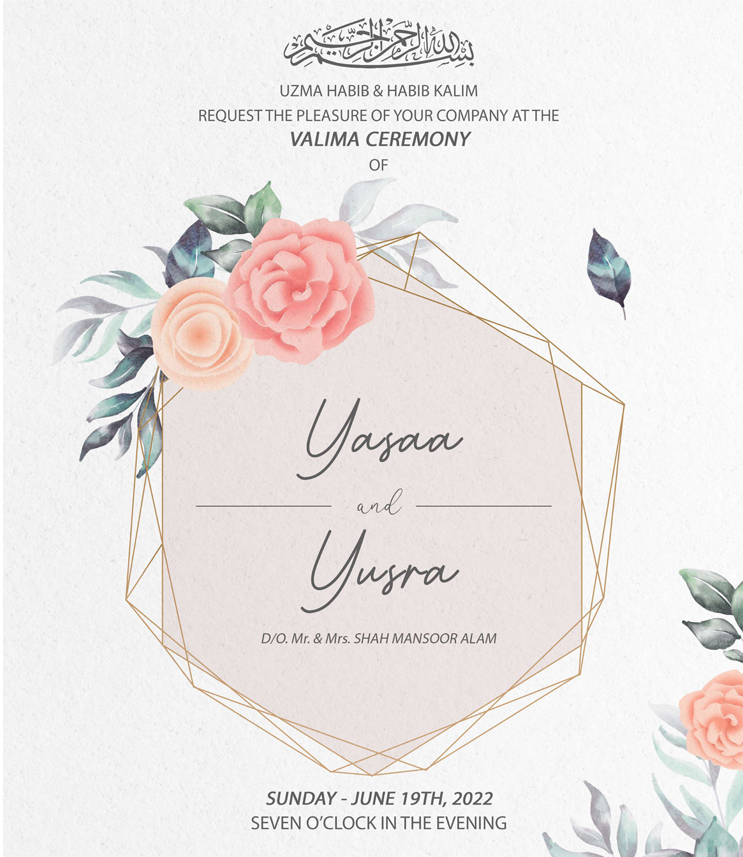
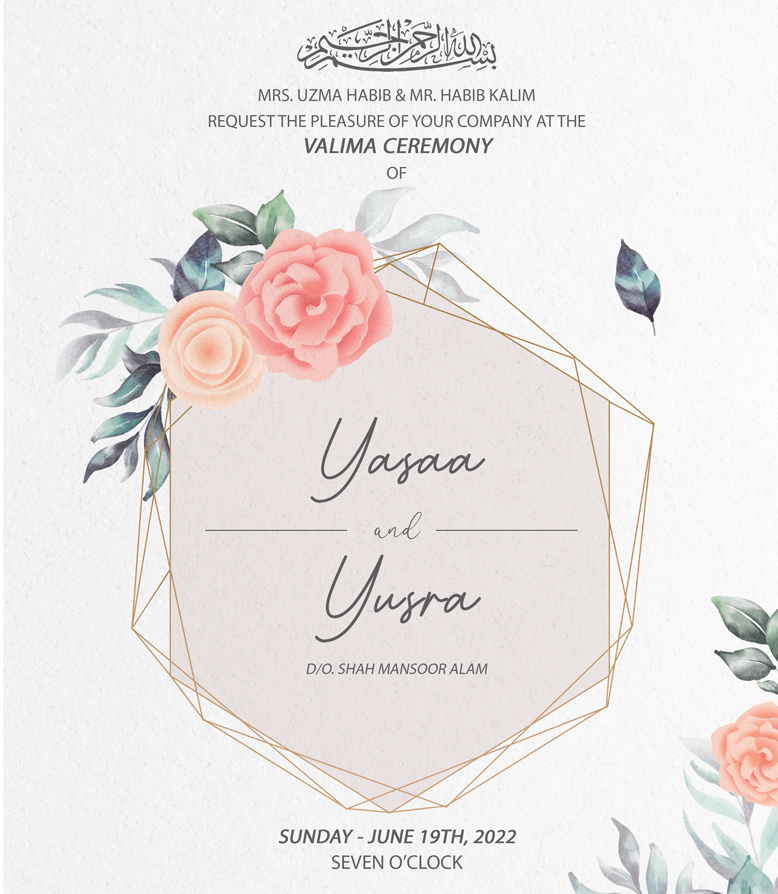
Added rsvp text

diff --git a/index.html b/index.html
@@ -1,40 +1,30 @@
 <html>
 <head>
-<title>You're Invited!</title>
+<title>Reception Invitation1</title>
 <meta http-equiv="Content-Type" content="text/html; charset=iso-8859-1">
 </head>
-<body bgcolor="#FFFFFF" leftmargin="0" rightmargin="0" topmargin="0" marginwidth="20" marginheight="20" bottommargin="20" >
-<!-- Save for Web Slices (Reception Card) -->
-<table id="Table_01" width="744" height="1050" border="0" cellpadding="0" cellspacing="0" align=center>
+<body bgcolor="#FFFFFF" leftmargin="0" rightmargin="0" topmargin="0" marginwidth="20" marginheight="40" bottommargin="20" >
+<!-- Save for Web Slices (Reception Invitation1.psd) -->
+<table id="Table_01" width="778" height="1100" border="0" cellpadding="0" cellspacing="0" align=center>
 	<tr>
 		<td colspan="3">
-			<img src="images/index_01.jpg" width="743" height="857" alt=""></td>
-		<td>
-			<img src="images/spacer.gif" width="1" height="857" alt=""></td>
+			<img src="images/index_01.jpg" width="778" height="894" alt=""></td>
 	</tr>
 	<tr>
+		<td>
+			<img src="images/index_02.jpg" width="290" height="104" alt=""></td>
+		<td>
+			<a href="https://www.google.com/maps/place/Shalimar+Banquets/@41.906013,-87.995106,15z/data=!4m5!3m4!1s0x0:0xc26fa38eea6a2687!8m2!3d41.9061094!4d-87.9947643?sa=X&ved=2ahUKEwjb9pCX1fH2AhXaHM0KHUwPCYsQ_BJ6BAhLEAU">
+				<img src="images/Reception-Invitation1_03.jpg" width="217" height="104" border="0" alt=""></a></td>
 		<td rowspan="2">
-			<img src="images/index_02.jpg" width="278" height="119" alt=""></td>
-		<td>
-			<a href="https://goo.gl/maps/FQpSR3jDmJVNz4Vn8">
-				<img src="images/Shalimar-Banquets-Location.jpg" width="212" height="83" border="0" alt=""></a></td>
-		<td rowspan="3">
-			<img src="images/index_04.jpg" width="253" height="193" alt=""></td>
-		<td>
-			<img src="images/spacer.gif" width="1" height="83" alt=""></td>
-	</tr>
-	<tr>
-		<td rowspan="2">
-			<img src="images/index_05.jpg" width="212" height="110" alt=""></td>
-		<td>
-			<img src="images/spacer.gif" width="1" height="36" alt=""></td>
+			<img src="images/index_04.jpg" width="271" height="206" alt=""></td>
 	</tr>
 	<tr>
 		<td>
 			<a href="https://www.theknot.com/yusraandyasaa">
-				<img src="images/RSVP-Link.jpg" width="278" height="74" border="0" alt=""></a></td>
+				<img src="images/Reception-Invitation1_05.jpg" width="290" height="102" border="0" alt=""></a></td>
 		<td>
-			<img src="images/spacer.gif" width="1" height="74" alt=""></td>
+			<img src="images/index_06.jpg" width="217" height="102" alt=""></td>
 	</tr>
 </table>
 <!-- End Save for Web Slices -->
